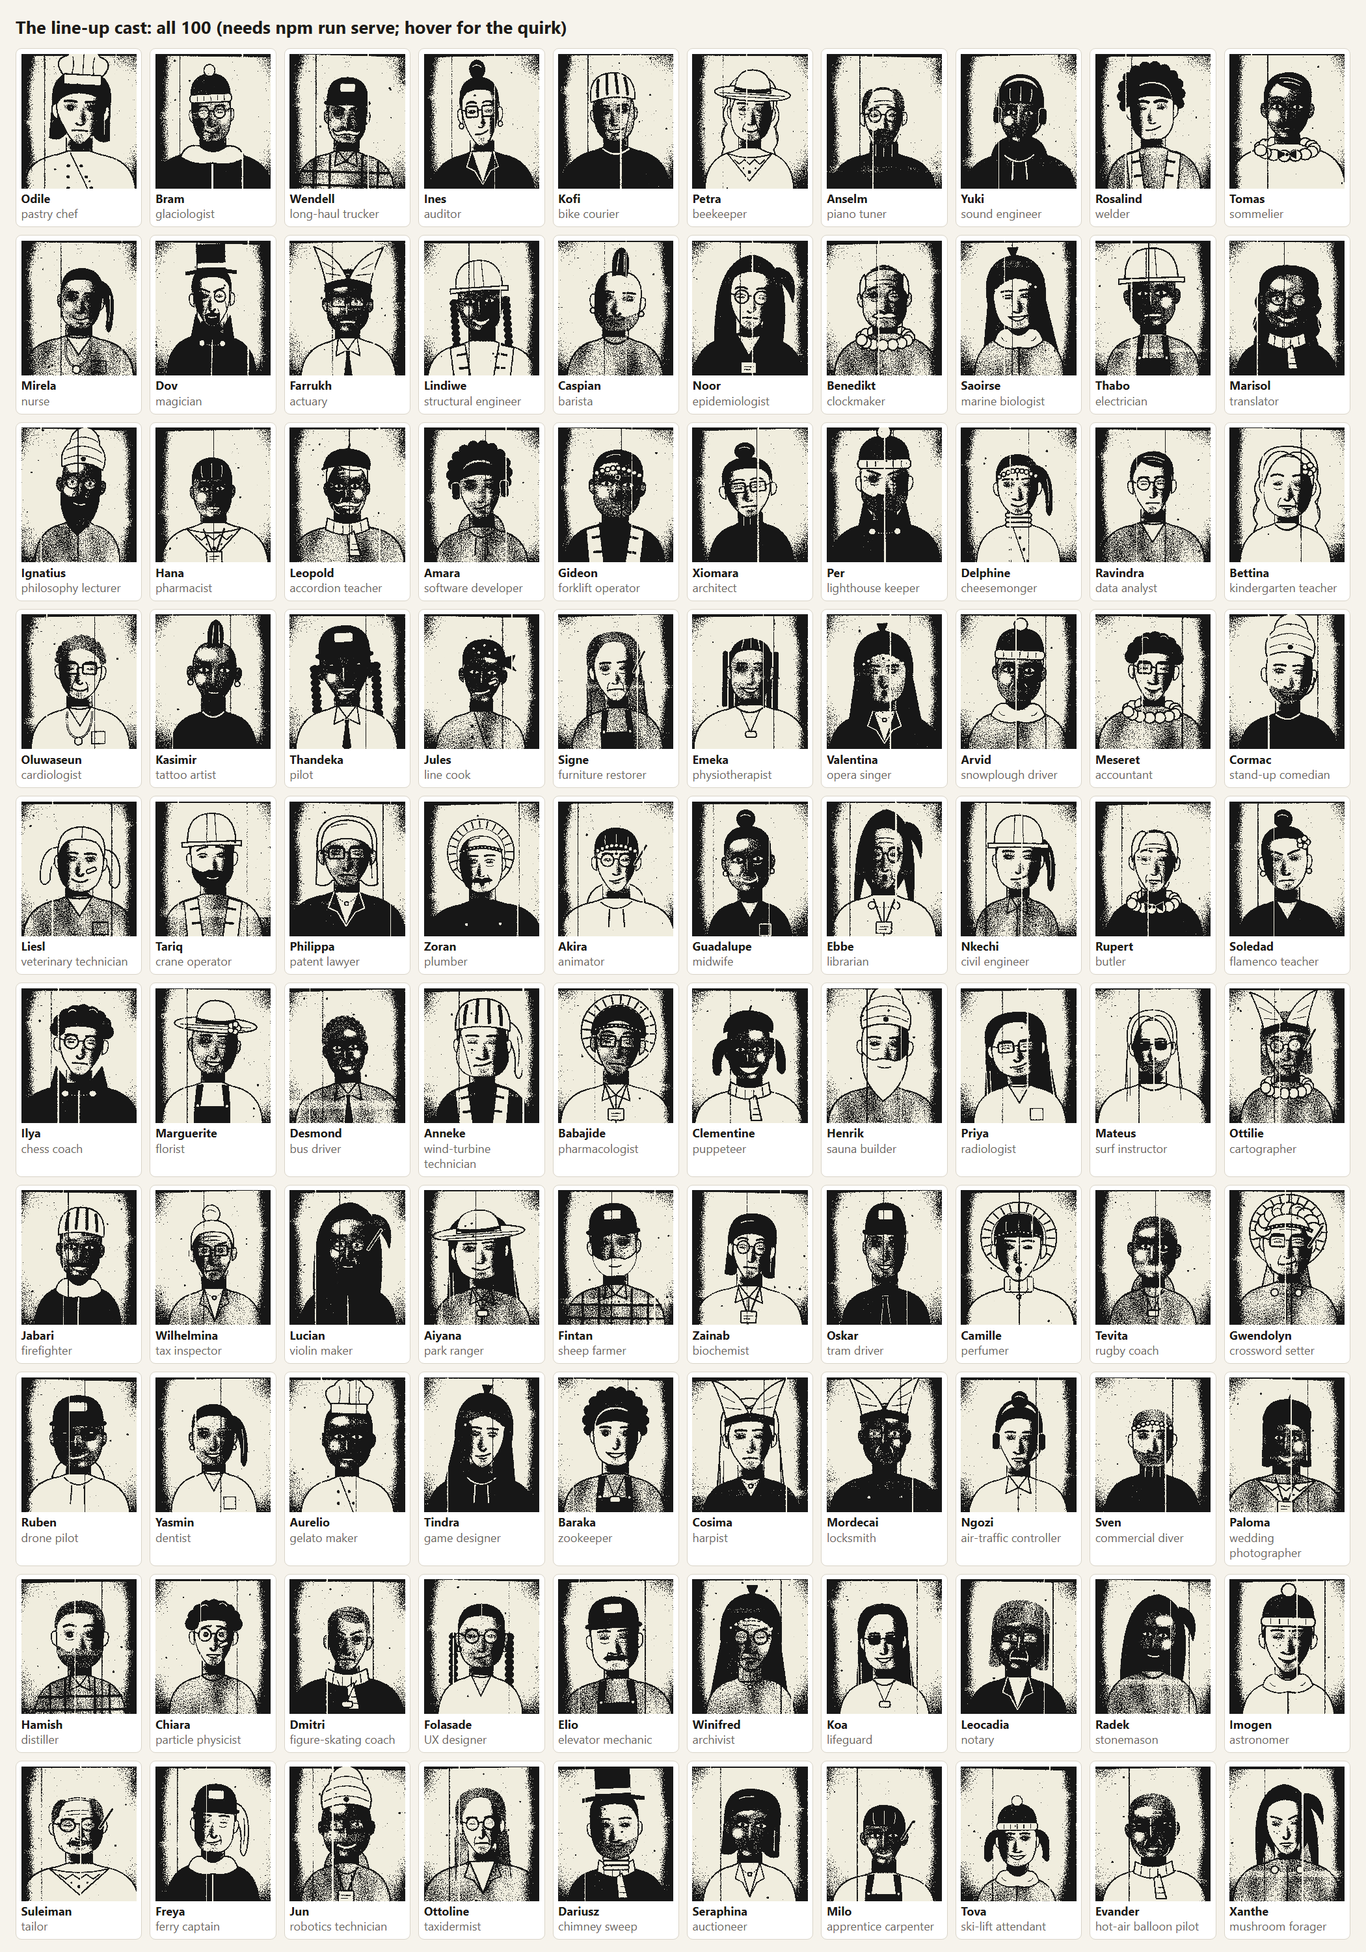
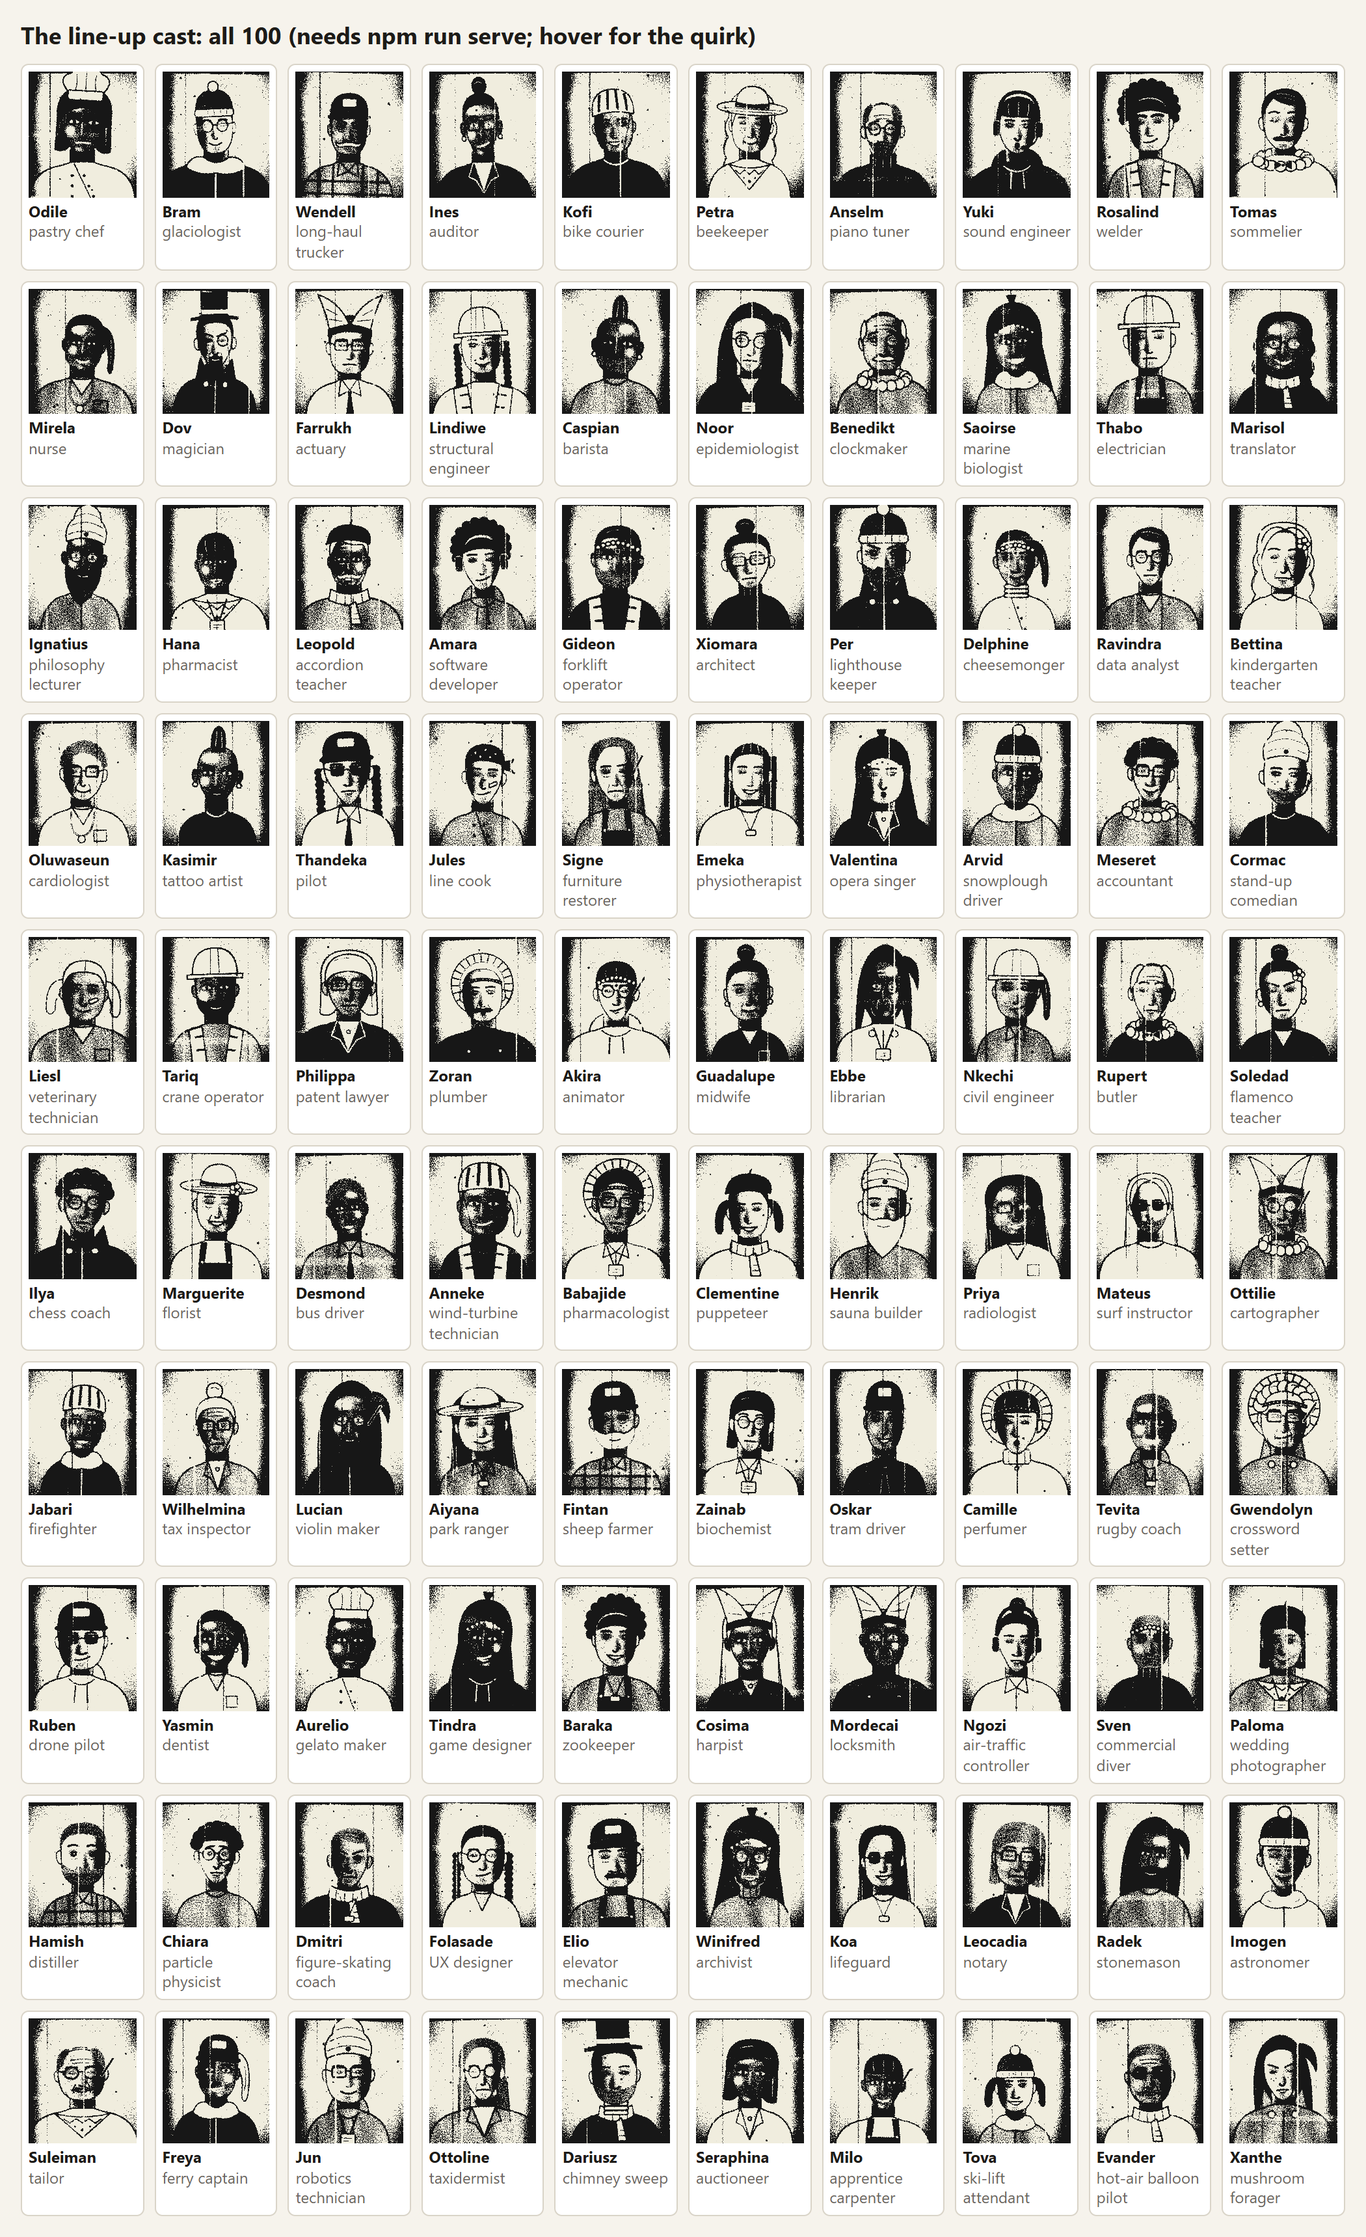
Record the nomination's removal in the README and retake the cast sheet

diff --git a/style.css b/style.css
@@ -220,7 +220,7 @@ button.person.wrong { border-color: var(--accent); }
 body[data-mode="lineup"] #clue { position: sticky; top: 0; z-index: 1; padding: 0.5rem 1.25rem; }
 body[data-mode="lineup"] .total-value { font-size: 2.25rem; }
 
-/* ---- phone: a guess is a block of labelled cells, not a row thirteen columns wide ---- */
+/* ---- phone: a guess is a block of labelled cells, not a row twelve columns wide ---- */
 @media (max-width: 48rem) {
   .board-scroll { overflow-x: visible; }
   .fields { grid-template-columns: 1fr 1fr; }

diff --git a/README.md b/README.md
@@ -24,7 +24,7 @@ A daily browser guessing game in the Wordle family, modelled on
 [Tradle](https://oec.world/en/tradle/): you are shown a CRS score (Canada's Express Entry
 Comprehensive Ranking System) and have to work out the person behind it: age, education,
 language level, Canadian and foreign work experience, marital status, and extras such as
-French, a sibling in Canada or a provincial nomination.
+French or a sibling in Canada.
 
 It is a game, not a calculator. Every existing CRS tool goes profile -> score; this goes
 score -> profile.
@@ -50,6 +50,9 @@ Made with the user on 2026-11-18. Change them on purpose, not by drift.
 - **Score with the 3 November 2026 rules only**, once they are verified against canada.ca
   and IRCC's own calculator. No "would this person be invited" line until a draw has
   happened under the new rules.
+- **Nobody is nominated by a province, in any mode.** The user, 2026-11-20: "they always
+  have insane score". A nomination is 600 points, so the score says "nominated" and
+  little else. See "Nominations are out" below.
 
 ## What the prototype does
 
@@ -58,10 +61,11 @@ each is one place in the code.
 
 - **Stack:** a static page, plain ES modules, no build step and no dependencies. Node is
   only used for the tests and the tools.
-- **A guess has 13 attributes** (`src/attributes.js`): spouse, age, education, first
+- **A guess has 12 attributes** (`src/attributes.js`): spouse, age, education, first
   language, second language, stronger in English or French, Canadian work, high-wage tier
-  of that work, job offer, foreign work, study in Canada, sibling, nomination. That is more
-  than the eight first imagined; the Labour Market Integration factor alone needs three.
+  of that work, job offer, foreign work, study in Canada, sibling. That is more than the
+  eight first imagined; the Labour Market Integration factor alone needs three. There
+  were 13 until the nomination went on 2026-11-20.
 - **Plateaus are one option.** Ages 20 to 29 score the same, so they are a single choice;
   likewise CLB 4-5 for a first language, 5-6 / 7-8 / 9+ for a second, and 1-2 years of
   foreign work. The player is never asked to tell apart things the tables do not.
@@ -75,7 +79,7 @@ each is one place in the code.
 - **Left out:** the trade certificate of qualification (50 transferability points). A
   hidden person never has one and a guess cannot claim one.
 - **What the score cannot see is lowered** (`canonical` in `src/profile.js`). A job offer
-  that loses to the work-experience path, a sibling under a nomination's 600-point cap,
+  that loses to the work-experience path, French-first where English-first scores the same,
   foreign work with weak language and no Canadian work: each is read as the lowest option
   that scores the same, and the cell is marked ∅. Answers are stored in this form, so every
   attribute of an answer moves the score.
@@ -90,8 +94,8 @@ each is one place in the code.
 - **Sampling** (`tools/make-answers.mjs`): a score band is drawn by IRCC's weights
   (`data/bands.json`, pool as of 25 October 2026), then people are generated as a life
   lived forward (age, an education possible by that age, work years that fit after it)
-  until one lands in the band. Every weight for age, education, language and the rest is
-  an invented guess. The list is committed, so changing the sampler does not move answers
+  until one lands in the band. The band above 600 is left out: those are nominated
+  people. Every weight for age, education, language and the rest is an invented guess. The list is committed, so changing the sampler does not move answers
   until the list is rebuilt on purpose.
 
 ## The other modes
@@ -152,9 +156,9 @@ this mode only.
   disc, twin peaks, a cowl, a bead band, a ruff, a yoke, a cloak), next to toques,
   parkas, plaid and hi-viz. Dress is dealt across names and skin tones on purpose.
 - **A picture must not be a clue to the score.** Skin tone is dealt out down the list of
-  scores, so each tone averages the same (352 to 370 without a nomination). The first
+  scores, so each tone averages the same (368 to 373). The first
   build let the cast list say the tone and the darker faces came out a hundred points
-  ahead. Invented dress averages 347 against 376 without. `make-lineup.mjs` prints both.
+  ahead. Invented dress averages 347 against 383 without. `make-lineup.mjs` prints both.
 - **Portraits are a burnt-out photocopy** (`src/portrait.js`): a face built from parts
   in soft greys, then thresholded through noise, so only toner and paper are left. No
   height chart and no placard; the user asked for the look, not a literal mugshot.
@@ -165,11 +169,12 @@ this mode only.
   from the name, so it is stable between builds.
 - **Age shows**, in lines and grey hair, following the age in the description. It is the
   only thing in a picture that follows a scoring attribute.
-- **Stored as the game reads them** (`canonical`), so 20 of the 100 lost something that
+- **Stored as the game reads them** (`canonical`), so 17 of the 100 lost something that
   made no difference: mostly work abroad with weak language, and French-first where
   English-first scores the same.
-- **Eleven are nominated**, so that a nominated person has neighbours 12 to 70 points
-  away. 29 of 1,830 rounds in a year still take whoever is nearest.
+- **Nobody is nominated.** Eleven were until 2026-11-20; they are the same people 600
+  points lower, and scores now run from 112 to 592. 21 of 1,830 rounds in a year still
+  take whoever is nearest, down from 29.
 - **On a desktop it has the frame of the guessing modes**, asked for by the user on
   2026-11-20: from 84rem wide, the score and the round on the left, the four people two
   by two where the choices are. At 1,366 by 768 a round fits the screen before the pick;
@@ -243,9 +248,10 @@ games, and `work` and `lang` still answer by address; no link leads to them.
   in the cell, grey when none is. `all` (`-all` in the address, "no yellow" on the page, four guesses):
   green or grey and nothing else. Single attributes keep their yellow and arrow.
 - **Groupings.** `work` joins Canadian work with its wage tier; `lang` joins first and
-  second language; `pairs` joins five: education with study in Canada, the two languages,
-  work with wage tier, job offer with foreign work, sibling with nomination. That is 8
-  cells in place of 13. `themes` (five cells, up to 252 combinations) is in the simulator
+  second language; `pairs` joins four: education with study in Canada, the two languages,
+  work with wage tier, job offer with foreign work. That is 8 cells in place of 12.
+  (Sibling was joined with the nomination until that went, and is now a cell of its
+  own.) `themes` (five cells, up to 252 combinations) is in the simulator
   only: too many to lay out as chips.
 - **Measured** with `node tools/simulate-tuples.mjs`, over all 366 people. The clicker
   ignores the score and takes the middle of what each cell's colours leave open, which is
@@ -255,17 +261,21 @@ games, and `work` and `lang` still answer by address; no link leads to them.
 
   | grouping, rule | cells | clicker by 6 | by 8 | reasoner by 3 | by 6 |
   |---|---|---|---|---|---|
-  | nothing joined | 13 | 100% | 100% | 100% | 100% |
-  | work, count | 12 | 62% | 100% | 99% | 100% |
-  | work, all | 12 | 11% | 14% | 95% | 100% |
-  | lang, count | 12 | 99% | 100% | 100% | 100% |
-  | pairs, count | 8 | 48% | 98% | 94% | 100% |
+  | nothing joined | 12 | 100% | 100% | 100% | 100% |
+  | work, count | 11 | 62% | 100% | 99% | 100% |
+  | work, all | 11 | 11% | 14% | 95% | 100% |
+  | lang, count | 11 | 99% | 100% | 100% | 100% |
+  | pairs, count | 8 | 58% | 100% | 94% | 100% |
   | pairs, all | 8 | 3% | 4% | 63% | 100% |
-  | themes, count | 5 | 27% | 64% | 90% | 100% |
+  | themes, count | 5 | 29% | 65% | 90% | 100% |
   | themes, all | 5 | 0% | 1% | 51% | 98% |
 
-  So `pairs` with `count` is the one on the page first: not thinking loses half the time
-  and thinking always wins. `pairs-all` is there as the hard end. A real player is
+  Run again on 2026-11-20 without the nomination. Only the clicker moved, on `pairs`
+  with `count` (48% and 98% before) and on `themes` (27% and 64%): sibling alone is an
+  easier cell than sibling with nomination.
+
+  So `pairs` with `count` is the one on the page first: not thinking loses four times in
+  ten and thinking always wins. `pairs-all` is there as the hard end. A real player is
   between the two: no point tables, but can read the sections.
 - **The reasoner's column says something about the game as it was:** with the full clue
   and the tables, two guesses are enough on average (2.10) with nothing joined, and
@@ -296,10 +306,9 @@ games, and `work` and `lang` still answer by address; no link leads to them.
 - **A pair is a table of chips.** A line for each value of its first attribute, named at
   the start of the line, and on it a chip for each value of the second; a caption says
   which runs down and which across. The chip says only the second value ("1.5×"); the
-  group's name line and the board cell say the combination ("2y 1.5×"). Sibling with
-  nomination has four combinations and stays four named chips.
+  group's name line and the board cell say the combination ("2y 1.5×").
 - **Cost: the form is twice as tall on a phone.** 1,694px on a 375px-wide phone before
-  anything is known, against 870px with nothing joined.
+  anything is known, against 870px with nothing joined; 1,658px without the nomination.
 - **On a desktop it is one screen**, asked for by the user on 2026-11-20. From 84rem
   (1,344px) wide, "find the person" puts the clue and the guesses on the left and the
   choices on the right, with the header on two lines and smaller chips. Measured at
@@ -317,12 +326,12 @@ the other modes. Read as: the joined choices and the one-screen desktop page. Co
 marked chips, hard mode and the "Rules" links stay where there is a hidden person to
 colour against.
 
-- **"Hit the score" has the joined choices**: the same five pairs, the same tables of
-  chips, eight cells on the board in place of 13. It joins what the address joins, so
-  `?mode=score&tuples=none` is still the thirteen separate choices. `-all` means nothing
+- **"Hit the score" has the joined choices**: the same four pairs, the same tables of
+  chips, eight cells on the board in place of 12. It joins what the address joins, so
+  `?mode=score&tuples=none` is still the twelve separate choices. `-all` means nothing
   there and is ignored: eight guesses either way.
 - **A joined cell has a line of steps for each part**, with a word in front saying which
-  ("1st ▲+24 ▼−45", "2nd ▲+4"). All 13 step hints are still on the board, which is what
+  ("1st ▲+24 ▼−45", "2nd ▲+4"). All 12 step hints are still on the board, which is what
   the simulator's 83% in eight guesses assumes.
 - **The saved game is the same game.** A guess is saved attribute by attribute, so a game
   begun with separate choices is still there, drawn with joined cells. Checked with an
@@ -345,6 +354,32 @@ colour against.
 - **Fixed on the way:** in a light colour scheme the value in a cell of "hit the score"
   was white on white, and only the steps under it could be read. It had been so since
   the mode was built; a dark scheme hid it.
+
+## Nominations are out
+
+Asked for by the user on 2026-11-20: "i dont think we should ever consider nominated by
+province -- they always have insane score. remove this from all modes".
+
+- **No guess can claim one.** The attribute is gone from `src/attributes.js`, so from the
+  form, the board, the step hints and the share grid of both guessing modes.
+- **Nobody hidden has one.** One of the 366 did, day 60. That person stays, without it:
+  309 points where there were 909. The other 365 are untouched, so the list was edited,
+  not rebuilt; a rebuild would have moved every day. `tools/make-answers.mjs` leaves
+  out the band above 600 the next time it is run.
+- **Nobody in the line-up has one.** Eleven of the cast did. The cast was rebuilt, and
+  since skin tone is dealt down the list of scores, 49 of the 100 faces changed tone.
+  `art/cast.png` was taken again.
+- **The scorer still knows the rule.** `src/score.js` adds 600 for `pnp`, which nothing
+  in the game sets. IRCC's calculator was checked with it, and 52 of the 600 vectors and
+  the second-opinion tests still test it. `tools/ircc-oracle.mjs` carries the yes-or-no
+  itself, so it still makes the same 600 profiles.
+- **A saved guess that claimed one is read without it** (`src/game.js`). Checked in a
+  browser with such a guess saved in three games: 326 points, not 926.
+- **Nothing can be lowered under the 600-point cap any more**, so a sibling and study in
+  Canada always count and are out of `LOWER_ORDER`.
+- **Not measured again:** the page heights and widths above, taken while the form had a
+  nomination row or chip. The form is a little shorter now. At 1,366 by 768 "find the
+  person", "hit the score" before a guess and the line-up still fit the screen.
 
 ## Design notes from the prior-art survey
 
@@ -383,7 +418,9 @@ colour against.
 - **A machine comparison with the calculator, 2026-11-20: it agrees.** IRCC's calculator
   scored 600 random profiles and `src/score.js` gives the same five numbers (four
   sections and the total) for every one. They are in `test/ircc-vectors.json`, which
-  `npm test` checks. 306 of the 600 have a spouse and 52 a nomination.
+  `npm test` checks. 306 of the 600 have a spouse and 52 a nomination. The game has had
+  no nomination since 2026-11-20; `src/score.js` keeps the rule and the vectors keep
+  testing it.
   - The calculator's script was not downloaded or run by node. `tools/ircc-oracle.mjs
     snippet` prints a snippet to paste into the browser console on the calculator's page
     (which now redirects to canada.ca's "Check your score"); it makes the profiles from a
@@ -392,7 +429,7 @@ colour against.
   - How the line got from the page to the file that day: it was not copied. This game's
     own line for the same profiles had the same length, the same two checksums and the
     same column sums as the page's, so the file was built from the game's copy.
-  - It covers what the game can express, with one fixed spouse (bachelor's, one year of
+  - It covers what the game can express and the nomination, with one fixed spouse (bachelor's, one year of
     Canadian work, CLB 7: 25 points). Not covered: mixed levels across language
     abilities, the certificate of qualification, other spouses.
   - Re-run it when IRCC changes the tool. The snippet reads the page's results by their
@@ -422,7 +459,7 @@ colour against.
   combine: 40% hit in four guesses, 73% in six, 83% in eight, 94% in twelve. With a
   "what this choice is worth" number in place of the step hints it was 32% in six. So
   eight guesses with step hints is a guess at "hard but fair". It may instead read as
-  arithmetic homework, and the hint row makes a 13-column board denser still.
+  arithmetic homework, and the hint row makes a 12-column board denser still.
 - **Is line-up too hard or too easy?** A pick is one in four by luck. Nobody has played a
   week of it. The 12-to-70-point window is the knob.
 - **A hidden clue still leaks the spouse section.** A guess with a spouse borrows the
@@ -431,13 +468,13 @@ colour against.
   carries it too. It goes away only if the spouse stops being a given.
 - **Six variants a day is a lot.** They exist so each can be tried; the point of trying
   them is to drop most.
-- **Is 13 columns too wide?** It fits a desktop. Below 48rem each guess is laid out as a
+- **Is 12 columns too wide?** (With nothing joined; the game on the page has 8.) It fits
+  a desktop. Below 48rem each guess is laid out as a
   block of labelled cells, four across, with the score last, and the form is two columns,
   so nothing scrolls sideways;
-  the cost is height, about three guesses to a phone screen. The share grid is still 13
-  squares per row. Nomination and spouse are nearly free cells when
-  the breakdown is shown (a nomination is 600 points; spouse points above zero mean a
-  spouse).
+  the cost is height, about three guesses to a phone screen. The share grid has a square
+  per cell. Spouse is a nearly free cell when the breakdown is shown (spouse points
+  above zero mean a spouse).
 - **Is lowering understandable?** A guess of "3+ years abroad" can come back as a green
   "1–2 years ∅" when both score the same. Worse is the reverse: the player picks the right
   value, it makes no difference next to the rest of that guess, and it comes back lowered
